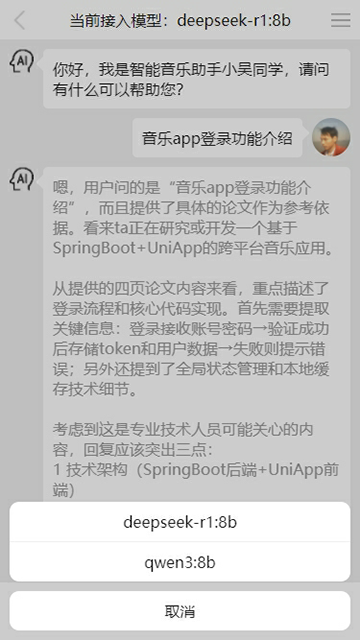
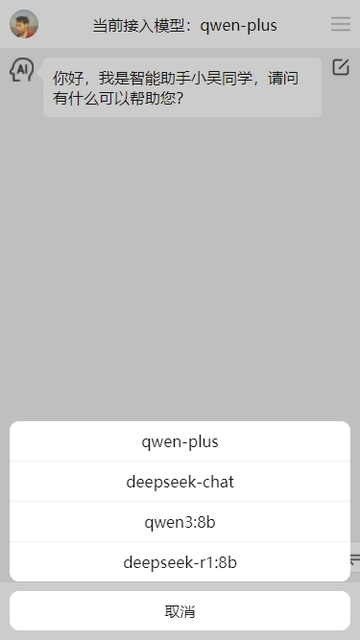
修改文档查询问题

diff --git a/src/pages/ChatPage.vue b/src/pages/ChatPage.vue
@@ -2,7 +2,7 @@
 	<view class="page-wrapper">
 		<view class="page-header">
 			<AvaterComponent size="small"/>
-			<text class="my-favorite">当前接入模型：{{ chatModelList[activeModelIndex]?.modelName }}</text>
+			<text class="my-favorite" @click="onSwitchModel">当前接入模型：{{ chatModelList[activeModelIndex]?.modelName }}</text>
 			<view class="menu-wrapper">
 				<image class="icon-small icon-record" @click="onShowMenu" :src="icon_menu"/>
 				<template v-if="showMenu">
@@ -262,7 +262,7 @@
 	const dialogText = ref<string>("");// 弹窗的内容
 	const chatList = reactive<Array<ChatType>>([
 		{
-			responseContent:"你好，我是智能音乐助手小吴同学，请问有什么可以帮助您？",
+			responseContent:"你好，我是智能助手小吴同学，请问有什么可以帮助您？",
 			position: PositionEnum.LEFT,
 			type:"system"
 		}
@@ -334,6 +334,7 @@
 				directoryId:directoryId.value,
 				language: LanguageMap[language.value],
 			};
+			console.log(payload)
 			await connectWebSocket();
 			socketTask?.send({
 				data: JSON.stringify(payload),
@@ -709,7 +710,6 @@
   }
 
 	const onUploadSure = ()=>{
-    debugger
 		uni.chooseFile({
 			count: 9,
 			type: 'file',

diff --git a/README.md b/README.md
@@ -73,15 +73,17 @@ AI与前端结合的实战经验（从接口调用到UI交互）
 ![ai聊天菜单功能](ai聊天菜单功能.png)
 ![ai聊天会话记录](ai聊天会话记录.png)
 ![ai聊天切换模型](ai聊天切换模型.png)
-![ai聊天切换模型](查询文档.png)
-![ai聊天切换模型](上传文档.png)
-![ai聊天切换模型](我的文档.png)
-![ai聊天切换模型](我的文档列表.png)
+![ai聊天切换模型](rag文档查询.png)
+![查询文档](查询文档.png)
+![上传文档](上传文档.png)
+![我的文档](我的文档.png)
 ![ai聊天切换模型](选择文档.png)
 ![添加用户](添加用户.png)
 ![选择文档目录](选择文档目录.png)
 ![提示词列表](提示词列表.png)
 ![设置提示词](设置提示词.png)
+![租户管理](租户管理.png)
+![租户管理2](租户管理2.png)
 =============================界面预览（如果无法预览，请查看项目根目录png文件）==========================   
 
 如果打不开github地址，请用github的镜像地址，例如
